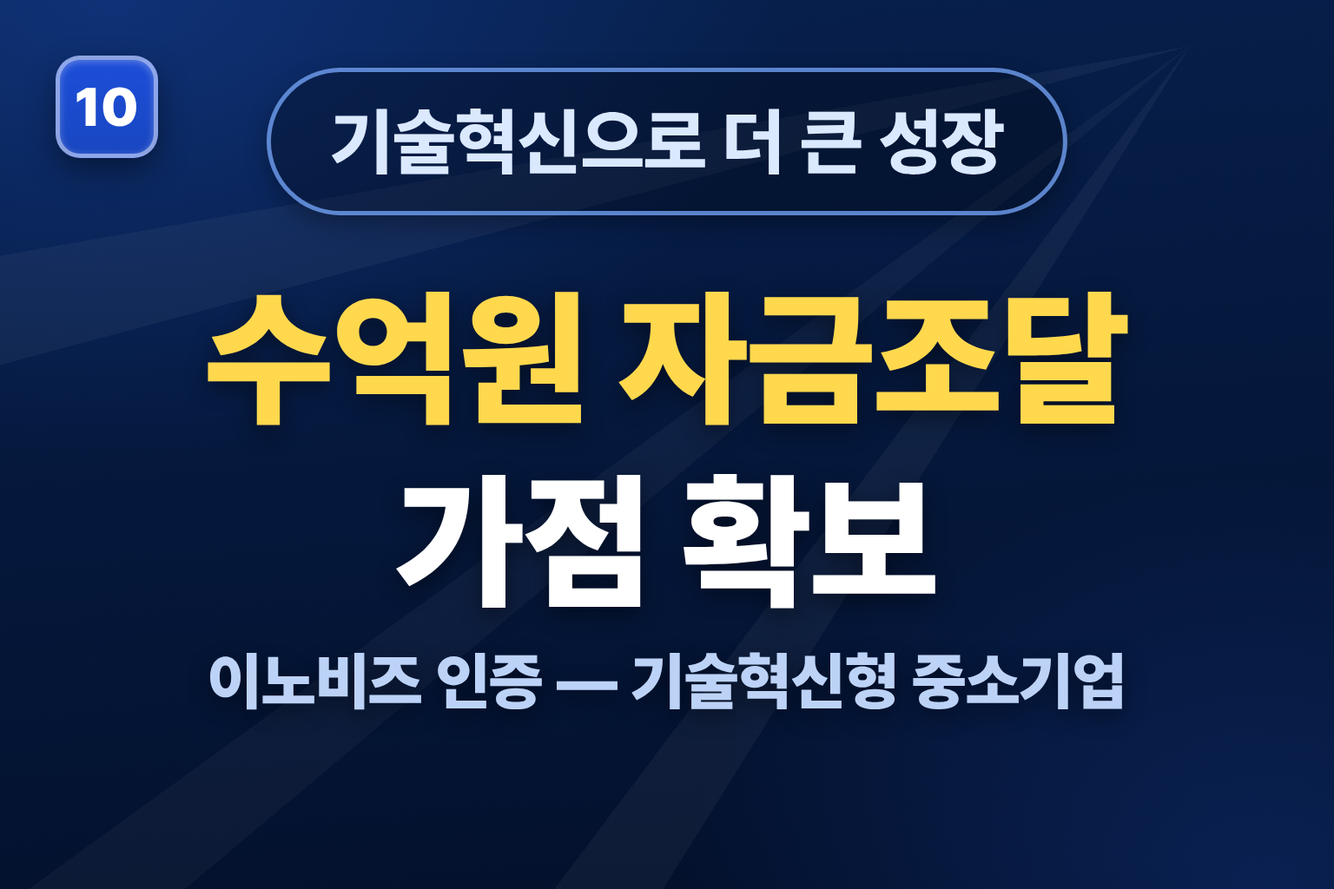
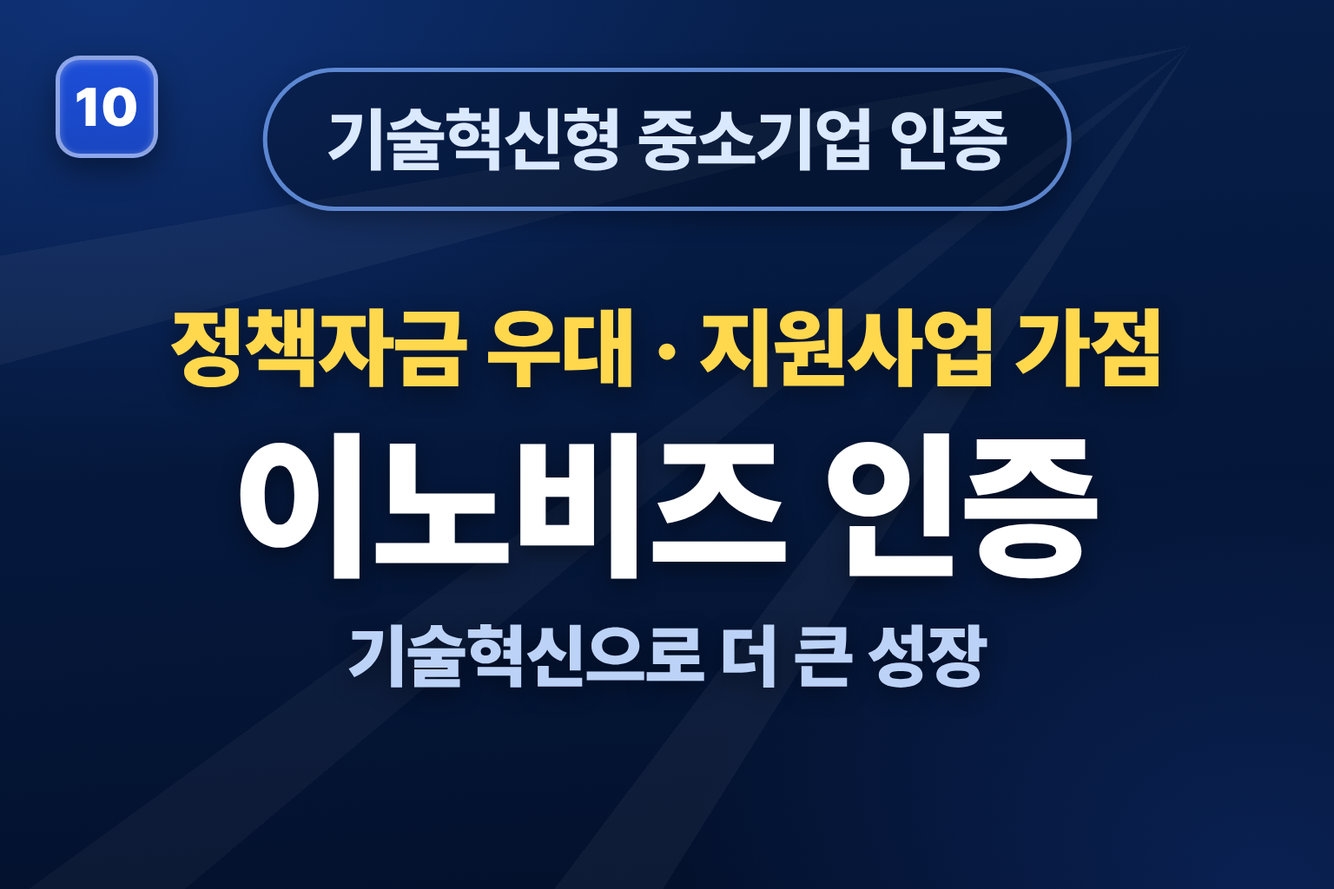
대표 페이지 대개편 — CTA 재구성·카드 버튼 제거·상담 채널 전환·유튜브 신뢰 섹션
히어로
- CTA 리네이밍: '우리 회사에 필요한 서비스 직접 체크해보기' + '✓ 비회원도 체크 가능' 캡션
- '대표 상품 TOP 5 보기'(파란색, #top3 스크롤) 버튼 신설
- 상담을 '카톡 상담하기'(카카오 채널 채팅)·'대면 상담 신청하기'(구글폼) 2버튼으로 분리
- '성장진단은 로그인 없이…' 안내문 삭제 (모바일·PC)
- 수상 2건을 모바일 포함 2열 병렬·소형 배치

상품 카드
- 결제하기/상담 신청/자세히 보기 버튼 전부 제거, 카드 전체가 상세페이지 링크 (결제·상담은 상세 상단 CTA)

하단
- '무료 진단 신청'(#apply·BusinessInquiryForm) 섹션 삭제 → 유튜브 '김팀장의 경영노트' 신뢰 섹션(채널 스크린샷+바로가기)
- 기존 #apply 참조(햄버거·모바일 스티키·진단 리포트·결제완료 화면)를 카카오/구글폼 외부 링크로 교체

배너 카피
- 풀패키지: 강조를 '종합 컨설팅 풀패키지'(골드)로 스왑
- ISO: '대기업 거래·입찰·수출에 큰 도움이 되는 / ISO 인증 패키지 / 9001·14001·45001'
- 메인비즈: '정책자금·정부지원사업에 유리한 / [메인비즈 인증] / 우대평가·가점·신뢰도'
- 이노비즈: '정책자금 우대·지원사업 가점 / 이노비즈 인증 / 기술혁신으로 더 큰 성장'

가격
- 이노비즈 인증 249만원 → 199만원 (front·테스트 카탈로그·시드 SQL 동기화)
  ⚠ 운영 billing_products/billing_prices 는 별도 SQL 실행 필요

상담 채널 상수는 config/businessInfo.consultLinks 로 단일화

Claude-Session: https://claude.ai/code/session_0127QvWRVvHFDHQbBmPVBCzc

diff --git a/src/pages/BusinessServicesPage.tsx b/src/pages/BusinessServicesPage.tsx
@@ -1,15 +1,14 @@
 import { useEffect, useState } from 'react'
 import { Link, useLocation, useSearchParams } from 'react-router-dom'
-import BusinessInquiryForm from '../components/BusinessInquiryForm'
 import BusinessServiceVisual from '../components/BusinessServiceVisual'
 import HeaderAccount from '../components/account/HeaderAccount'
 import LegalFooter from '../components/LegalFooter'
+import { consultLinks } from '../config/businessInfo'
 import {
   businessPackages,
   CATEGORIES,
   CATEGORY_SCENARIOS,
   categoryToneClass,
-  DISCLAIMER,
   FEATURED_IDS,
   packageBanner,
   type BusinessPackage,
@@ -62,39 +61,28 @@ function formatKoreanMoney(text: string): string {
     .replace(/(?<![\d,])(\d+)\s*천\s*원/g, (_m, cheon: string) => `${(parseInt(cheon, 10) * 1000).toLocaleString('ko-KR')}원`)
 }
 
-// 서비스몰형 상품 카드(2차 고도화) — SaaS 미니멀. 카드는 '판매'(사고 싶게), 상세페이지는 '설명' 역할.
-// 상품명 → 가격(강조) → 대표 혜택 3 → 버튼 2. 결제/상담 상품을 시각적으로 구분.
+// 서비스몰형 상품 카드(3차) — 버튼 없이 카드 전체가 상세페이지 링크.
+// 상품명 → 가격(강조) → 대표 혜택 3. 결제/상담은 상세페이지 상단 CTA 에서 진행.
 function ProductCard({ pkg }: { pkg: BusinessPackage }) {
   const b = packageBanner[pkg.id]
   const flagship = pkg.flagship
   const consult = pkg.priceType === 'consult'
   const priceText = formatKoreanMoney(pkg.price)
 
-  // 기본 CTA 테마 — 대표상품(amber) → 상담(blue, "문의") → 결제(slate-900, "구매")
-  const ctaTheme = flagship
-    ? 'bg-amber-500 text-white hover:bg-amber-600 focus-visible:outline-amber-500 shadow-amber-500/20'
-    : consult
-      ? 'bg-blue-600 text-white hover:bg-blue-700 focus-visible:outline-blue-600 shadow-blue-600/15'
-      : 'bg-slate-900 text-white hover:bg-slate-700 focus-visible:outline-slate-600 shadow-slate-900/10'
-  const primaryBtn =
-    `group/btn inline-flex h-[3.25rem] flex-1 items-center justify-center gap-1 whitespace-nowrap rounded-xl px-3 text-[1.05rem] font-bold shadow-sm transition-all duration-150 active:scale-[0.98] focus-visible:outline focus-visible:outline-2 focus-visible:outline-offset-2 disabled:pointer-events-none disabled:opacity-50 ${ctaTheme}`
-
   return (
-    <article
-      className={`group relative flex flex-col overflow-hidden rounded-2xl bg-white transition-all duration-200 hover:-translate-y-1 motion-reduce:transition-none motion-reduce:hover:translate-y-0 ${
+    <Link
+      to={`/business-services/${pkg.slug}`}
+      aria-label={`${pkg.name} 자세히 보기`}
+      className={`group relative flex flex-col overflow-hidden rounded-2xl bg-white transition-all duration-200 hover:-translate-y-1 focus-visible:outline focus-visible:outline-2 focus-visible:outline-offset-2 focus-visible:outline-blue-500 motion-reduce:transition-none motion-reduce:hover:translate-y-0 ${
         flagship
           ? 'border border-amber-300 shadow-sm shadow-amber-500/10 hover:border-amber-400 hover:shadow-lg hover:shadow-amber-500/15'
           : 'border border-slate-200 shadow-sm hover:border-slate-300 hover:shadow-lg'
       }`}
     >
       {/* 썸네일 — 첫인상 전용(대표 카피·이미지). 16:10 컴팩트, 상단 고정 크롭 */}
-      <Link
-        to={`/business-services/${pkg.slug}`}
-        aria-label={`${pkg.name} 자세히 보기`}
-        className="relative block aspect-[16/10] overflow-hidden bg-slate-100 focus-visible:outline focus-visible:outline-2 focus-visible:outline-offset-2 focus-visible:outline-blue-500"
-      >
+      <div className="relative aspect-[16/10] overflow-hidden bg-slate-100">
         <BusinessServiceVisual type={pkg.visualType} title={b.title} accent={b.accent} tag={pkg.category} imageSrc={pkg.imageSrc} alt={pkg.name} fit="cover" minimal />
-      </Link>
+      </div>
 
       <div className="flex flex-1 flex-col p-4 sm:p-5">
         {/* 카테고리 ↔ 대표상품/배지 */}
@@ -142,25 +130,8 @@ function ProductCard({ pkg }: { pkg: BusinessPackage }) {
           ))}
         </ul>
 
-        {/* 버튼 2개 — 결제/상담(primary) · 자세히 보기(secondary) */}
-        <div className="mt-auto flex gap-2 pt-4">
-          {consult ? (
-            <a href="#apply" className={primaryBtn}>상담 신청</a>
-          ) : (
-            <Link to={`/checkout/${pkg.slug}`} className={primaryBtn}>
-              결제하기
-              <span aria-hidden className="transition-transform duration-150 group-hover/btn:translate-x-0.5">→</span>
-            </Link>
-          )}
-          <Link
-            to={`/business-services/${pkg.slug}`}
-            className="inline-flex h-[3.25rem] flex-1 items-center justify-center whitespace-nowrap rounded-xl border border-slate-300 px-3 text-[1.05rem] font-semibold text-slate-700 transition-all duration-150 hover:border-slate-400 hover:bg-slate-50 active:scale-[0.98] focus-visible:outline focus-visible:outline-2 focus-visible:outline-offset-2 focus-visible:outline-blue-500"
-          >
-            자세히 보기
-          </Link>
-        </div>
       </div>
-    </article>
+    </Link>
   )
 }
 
@@ -273,30 +244,51 @@ export default function BusinessServicesPage() {
           <p className="mt-4 max-w-2xl text-[1.1rem] leading-relaxed text-slate-300 sm:text-xl">
             정책자금·고용지원금·기업인증·홈페이지·AI 시스템까지, 기업 상황에 맞는 패키지를 상담 후 제안드립니다.
           </p>
-          <div className="mt-7 flex flex-col gap-3 sm:flex-row">
+          <div className="mt-7 max-w-3xl">
             <Link
               to="/business-diagnosis"
-              className="inline-flex items-center justify-center gap-1.5 rounded-xl bg-amber-400 px-7 py-4 text-lg font-black text-slate-900 shadow-lg shadow-amber-500/20 transition-transform hover:-translate-y-0.5"
+              className="flex items-center justify-center gap-1.5 rounded-xl bg-amber-400 px-7 py-4 text-lg font-black text-slate-900 shadow-lg shadow-amber-500/20 transition-transform hover:-translate-y-0.5 sm:inline-flex"
             >
-              🩺 우리 회사에 필요한 서비스 찾기
+              🩺 우리 회사에 필요한 서비스 직접 체크해보기
             </Link>
-            <button
-              type="button"
-              onClick={() => scrollToId('packages')}
-              className="inline-flex items-center justify-center rounded-xl border border-white/25 bg-white/5 px-7 py-4 text-lg font-bold text-white transition-colors hover:bg-white/10"
-            >
-              전체 상품 보기
-            </button>
-            <a
-              href="#apply"
-              className="inline-flex items-center justify-center rounded-xl border border-white/25 bg-white/5 px-7 py-4 text-lg font-bold text-white transition-colors hover:bg-white/10"
-            >
-              상담 신청하기
-            </a>
+            <p className="mt-2 text-[0.9rem] font-bold text-amber-200/90">✓ 비회원도 체크 가능</p>
+
+            <div className="mt-4 grid grid-cols-2 gap-2.5 sm:flex sm:flex-wrap sm:gap-3">
+              <button
+                type="button"
+                onClick={() => scrollToId('top3')}
+                className="inline-flex items-center justify-center rounded-xl bg-blue-600 px-5 py-3.5 text-base font-bold text-white shadow-lg shadow-blue-600/25 transition-colors hover:bg-blue-500 sm:px-6"
+              >
+                대표 상품 TOP 5 보기
+              </button>
+              <button
+                type="button"
+                onClick={() => scrollToId('packages')}
+                className="inline-flex items-center justify-center rounded-xl border border-white/25 bg-white/5 px-5 py-3.5 text-base font-bold text-white transition-colors hover:bg-white/10 sm:px-6"
+              >
+                전체 상품 보기
+              </button>
+              <a
+                href={consultLinks.kakaoChat}
+                target="_blank"
+                rel="noopener noreferrer"
+                className="inline-flex items-center justify-center gap-1.5 rounded-xl bg-[#FEE500] px-5 py-3.5 text-base font-bold text-[#191919] transition-transform hover:-translate-y-0.5 sm:px-6"
+              >
+                <svg viewBox="0 0 24 24" className="h-5 w-5 shrink-0" aria-hidden>
+                  <path fill="#191919" d="M12 3C6.75 3 2.5 6.36 2.5 10.5c0 2.64 1.73 4.96 4.34 6.29l-.9 3.33c-.08.3.26.54.52.37l3.96-2.63c.51.07 1.04.14 1.58.14 5.25 0 9.5-3.36 9.5-7.5S17.25 3 12 3z" />
+                </svg>
+                카톡 상담하기
+              </a>
+              <a
+                href={consultLinks.googleForm}
+                target="_blank"
+                rel="noopener noreferrer"
+                className="inline-flex items-center justify-center rounded-xl border border-white/25 bg-white/5 px-5 py-3.5 text-base font-bold text-white transition-colors hover:bg-white/10 sm:px-6"
+              >
+                대면 상담 신청하기
+              </a>
+            </div>
           </div>
-          <p className="mt-3.5 text-[0.98rem] font-medium text-slate-400">
-            <b className="text-slate-200">성장진단</b>은 로그인 없이 바로 · <b className="text-slate-200">상담 신청</b>은 담당자가 직접 연락드립니다.
-          </p>
 
           {/* 신뢰 지표 — 서비스 찾기 CTA 바로 아래, 상품보다 먼저 눈에 띄게 */}
           <div id="trust" className="mt-7 max-w-4xl scroll-mt-24 rounded-2xl border border-white/10 bg-white/[0.05] p-5 backdrop-blur sm:p-6">
@@ -343,13 +335,14 @@ export default function BusinessServicesPage() {
                   <span aria-hidden className="text-slate-300">↗</span>
                 </a>
               </div>
-              <div className="mt-3.5 grid gap-2.5 sm:grid-cols-2">
+              {/* 수상 — 모바일에서도 2열 병렬, 소형 */}
+              <div className="mt-3 grid grid-cols-2 gap-2">
                 {trustAwards.map((a) => (
-                  <div key={a.title} className="flex items-start gap-2.5 rounded-lg border border-white/10 bg-white/5 px-3.5 py-2.5">
-                    <span className="mt-0.5 shrink-0 rounded bg-amber-400 px-2 py-0.5 text-[0.8rem] font-black text-slate-900">{a.year}</span>
+                  <div key={a.title} className="flex items-start gap-1.5 rounded-lg border border-white/10 bg-white/5 px-2.5 py-2">
+                    <span className="mt-0.5 shrink-0 rounded bg-amber-400 px-1.5 py-0.5 text-[0.68rem] font-black text-slate-900">{a.year}</span>
                     <span className="min-w-0">
-                      <span className="block text-[0.98rem] font-bold leading-snug text-slate-100">{a.title}</span>
-                      <span className="text-[0.85rem] text-slate-400">{a.detail}</span>
+                      <span className="block text-[0.78rem] font-bold leading-snug text-slate-100">{a.title}</span>
+                      <span className="text-[0.7rem] text-slate-400">{a.detail}</span>
                     </span>
                   </div>
                 ))}
@@ -435,22 +428,39 @@ export default function BusinessServicesPage() {
         </div>
       </section>
 
-      {/* Apply form */}
-      <section id="apply" className="scroll-mt-16 border-t border-slate-200 bg-slate-50">
-        <div className="mx-auto max-w-3xl px-5 py-10 sm:px-6 sm:py-14">
+      {/* 활동·신뢰 — 유튜브 채널 (SNS 활동 결과물, 추후 확장) */}
+      <section id="channel" className="scroll-mt-16 border-t border-slate-200 bg-slate-50">
+        <div className="mx-auto max-w-4xl px-5 py-10 sm:px-6 sm:py-14">
           <div className="text-center">
-            <p className={eyebrow}>무료 진단 신청</p>
-            <h2 className={h2Class}>먼저, 대표님 상황부터 진단해보세요</h2>
+            <p className={eyebrow}>믿을 수 있는 활동</p>
+            <h2 className={h2Class}>유튜브 ‘김팀장의 경영노트’</h2>
             <p className="mx-auto mt-3 max-w-xl text-base leading-relaxed text-slate-600">
-              간단히 남겨주시면 어떤 준비부터 시작하면 좋을지 방향을 정리해 안내드립니다.
+              정책자금·정부지원금·절세 실무를 영상으로 직접 공개하고 있습니다.
             </p>
           </div>
-          <p className="mx-auto mt-6 max-w-xl rounded-2xl border border-slate-200 bg-white p-4 text-xs leading-relaxed text-slate-500">
-            {DISCLAIMER}
-          </p>
-          <div className="mt-6">
-            <BusinessInquiryForm />
-          </div>
+          <a
+            href={consultLinks.youtube}
+            target="_blank"
+            rel="noopener noreferrer"
+            aria-label="유튜브 김팀장의 경영노트 채널 (새 탭에서 열림)"
+            className="group mt-7 block overflow-hidden rounded-2xl border border-slate-200 bg-white shadow-sm transition-all duration-200 hover:-translate-y-0.5 hover:border-slate-300 hover:shadow-lg motion-reduce:transition-none"
+          >
+            <img
+              src="/assets/profile/youtube-channel.webp"
+              alt="유튜브 김팀장의 경영노트 채널 화면 — 정책자금·지원금·절세 실무 영상"
+              loading="lazy"
+              decoding="async"
+              className="w-full"
+            />
+            <span className="flex items-center justify-center gap-2 border-t border-slate-100 px-4 py-4 text-[1.05rem] font-bold text-slate-800">
+              <svg viewBox="0 0 24 24" className="h-6 w-6 shrink-0" aria-hidden>
+                <rect x="1.5" y="5" width="21" height="14" rx="3.5" fill="#FF0000" />
+                <path d="M10 9.2v5.6l5-2.8-5-2.8z" fill="#fff" />
+              </svg>
+              채널 바로가기
+              <span aria-hidden className="transition-transform group-hover:translate-x-0.5">↗</span>
+            </span>
+          </a>
         </div>
       </section>
 
@@ -464,13 +474,15 @@ export default function BusinessServicesPage() {
             to="/business-diagnosis"
             className="flex flex-1 items-center justify-center rounded-xl bg-blue-600 px-4 py-3.5 text-base font-bold text-white"
           >
-            3분 무료 성장진단
+            서비스 직접 체크해보기
           </Link>
           <a
-            href="#apply"
-            className="flex flex-1 items-center justify-center rounded-xl border border-slate-300 bg-white px-4 py-3.5 text-base font-bold text-slate-700"
+            href={consultLinks.kakaoChat}
+            target="_blank"
+            rel="noopener noreferrer"
+            className="flex flex-1 items-center justify-center gap-1 rounded-xl bg-[#FEE500] px-4 py-3.5 text-base font-bold text-[#191919]"
           >
-            상담 신청
+            카톡 상담
           </a>
         </div>
       )}

diff --git a/src/pages/PaymentCompletePage.tsx b/src/pages/PaymentCompletePage.tsx
@@ -4,6 +4,7 @@
 //  - code/message 쿼리가 있으면 실패·취소 상태로 표시
 //  - 새로고침해도 중복 주문 없이 기존 결과를 다시 보여줍니다 (서버 멱등)
 import { useCallback, useEffect, useState } from 'react'
+import { consultLinks } from '../config/businessInfo'
 import { Link, useSearchParams } from 'react-router-dom'
 import HeaderAccount from '../components/account/HeaderAccount'
 import { ServiceTimeline, StatusBadge } from '../components/payment/PaymentUX'
@@ -274,9 +275,9 @@ export default function PaymentCompletePage() {
                   다시 결제하기
                 </Link>
               )}
-              <Link to="/business-services#apply" onClick={() => trackPaymentEvent('payment_consultation_clicked', paymentId)} className="flex min-h-12 flex-1 items-center justify-center rounded-xl border border-slate-300 bg-white px-6 py-3 text-base font-bold text-slate-700 hover:bg-slate-50">
+              <a href={consultLinks.googleForm} target="_blank" rel="noopener noreferrer" onClick={() => trackPaymentEvent('payment_consultation_clicked', paymentId)} className="flex min-h-12 flex-1 items-center justify-center rounded-xl border border-slate-300 bg-white px-6 py-3 text-base font-bold text-slate-700 hover:bg-slate-50">
                 상담 신청하기
-              </Link>
+              </a>
             </div>
           </>
         )}
@@ -295,9 +296,9 @@ export default function PaymentCompletePage() {
               >
                 다시 결제하기
               </Link>
-              <Link to="/business-services#apply" onClick={() => trackPaymentEvent('payment_consultation_clicked', paymentId || null)} className="flex min-h-12 flex-1 items-center justify-center rounded-xl border border-slate-300 bg-white px-6 py-3 text-base font-bold text-slate-700 hover:bg-slate-50">
+              <a href={consultLinks.googleForm} target="_blank" rel="noopener noreferrer" onClick={() => trackPaymentEvent('payment_consultation_clicked', paymentId || null)} className="flex min-h-12 flex-1 items-center justify-center rounded-xl border border-slate-300 bg-white px-6 py-3 text-base font-bold text-slate-700 hover:bg-slate-50">
                 상담 신청하기
-              </Link>
+              </a>
             </div>
           </>
         )}
@@ -309,9 +310,9 @@ export default function PaymentCompletePage() {
             <p className="mt-2 text-sm leading-relaxed text-slate-600">
               추가 결제를 시도하지 말고 고객센터로 문의해주세요. 담당자가 결제 내역을 확인해 처리해드립니다.
             </p>
-            <Link to="/business-services#apply" className="mt-5 flex min-h-12 w-full items-center justify-center rounded-xl bg-slate-900 px-6 py-3 text-base font-bold text-white hover:bg-slate-700">
+            <a href={consultLinks.googleForm} target="_blank" rel="noopener noreferrer" className="mt-5 flex min-h-12 w-full items-center justify-center rounded-xl bg-slate-900 px-6 py-3 text-base font-bold text-white hover:bg-slate-700">
               고객센터 문의하기
-            </Link>
+            </a>
           </>
         )}
       </main>

diff --git a/src/components/PublicMenuDrawer.tsx b/src/components/PublicMenuDrawer.tsx
@@ -6,6 +6,7 @@ import { createPortal } from 'react-dom'
 import { Link, useLocation, useNavigate } from 'react-router-dom'
 import { loadHistory } from '../lib/businessDiagnosisStorage'
 import { loadLocalOrders } from '../lib/payments'
+import { consultLinks } from '../config/businessInfo'
 import { useAuth } from '../lib/auth'
 import { accountEmail, displayName, memberTypeLabel, resolveAvatarUrl } from '../lib/accountDisplay'
 import { loginPathWithNext } from '../lib/authRouting'
@@ -77,7 +78,8 @@ const BUSINESS_MENU: MenuConfig = {
       accent: 'cyan',
       items: [
         { label: '기업 진단', to: '/business-diagnosis', match: (p) => p.startsWith('/business-diagnosis') },
-        { label: '상담 신청', to: '/business-services#apply' },
+        { label: '카톡 상담하기', to: consultLinks.kakaoChat },
+        { label: '대면 상담 신청', to: consultLinks.googleForm },
       ],
     },
     {
@@ -367,6 +369,25 @@ export default function PublicMenuDrawer({
                     <ul className="space-y-0.5">
                       {group.items.map((m) => {
                         const active = m.match ? m.match(path) : false
+                        // 외부 링크(카톡·구글폼 등)는 <a> 로 새 탭 오픈
+                        if (m.to.startsWith('http')) {
+                          return (
+                            <li key={m.label}>
+                              <a
+                                href={m.to}
+                                target="_blank"
+                                rel="noopener noreferrer"
+                                className="flex min-h-11 items-center justify-between gap-2 rounded-xl px-3.5 py-2.5 text-slate-700 transition-colors hover:bg-slate-50 hover:text-slate-900 focus-visible:outline focus-visible:outline-2 focus-visible:outline-blue-500"
+                              >
+                                <span className="flex min-w-0 items-start gap-2">
+                                  {m.no && <span className={`mt-0.5 shrink-0 text-[0.85rem] font-black tabular-nums ${acc.no}`}>{m.no}.</span>}
+                                  <span className="block text-[0.95rem] font-semibold leading-snug">{m.label}</span>
+                                </span>
+                                <span aria-hidden className="shrink-0 text-slate-400">↗</span>
+                              </a>
+                            </li>
+                          )
+                        }
                         return (
                           <li key={m.label}>
                             <Link

diff --git a/src/components/diagnosis/StageReport.tsx b/src/components/diagnosis/StageReport.tsx
@@ -3,6 +3,7 @@
 //   ① 한눈에 보기  ② 지금 먼저 확인할 3가지  ③ 놓치고 있을 혜택  ④ 성장 로드맵  ⑤ 맞춤 서비스(제출 후)
 //   + 영역별 상세 준비도(접힘). 추천 상품은 게이트(연락처) 제출 후 공개.
 import { useEffect, useState } from 'react'
+import { consultLinks } from '../../config/businessInfo'
 import { Link } from 'react-router-dom'
 import type {
   AdvantageResultItem,
@@ -287,9 +288,9 @@ function Recommendations({
                     자세히 보기
                   </Link>
                   {pkg.priceType === 'consult' ? (
-                    <Link to="/business-services#apply" onClick={() => onConsultClick(rec.slug)} className="flex min-h-11 flex-1 items-center justify-center rounded-xl border border-slate-300 px-3 py-2.5 text-sm font-bold text-slate-700 transition-colors hover:bg-slate-50">
+                    <a href={consultLinks.googleForm} target="_blank" rel="noopener noreferrer" onClick={() => onConsultClick(rec.slug)} className="flex min-h-11 flex-1 items-center justify-center rounded-xl border border-slate-300 px-3 py-2.5 text-sm font-bold text-slate-700 transition-colors hover:bg-slate-50">
                       상담 신청
-                    </Link>
+                    </a>
                   ) : (
                     <Link to={`/checkout/${pkg.slug}`} onClick={() => onConsultClick(rec.slug)} className="flex min-h-11 flex-1 items-center justify-center rounded-xl bg-blue-600 px-3 py-2.5 text-sm font-bold text-white transition-colors hover:bg-blue-700">
                       바로 결제하기

diff --git a/api/_lib/paymentCatalog.ts b/api/_lib/paymentCatalog.ts
@@ -30,7 +30,7 @@ const LOCAL_CATALOG: Array<Omit<ServerProduct, 'source' | 'priceId' | 'priceVers
   { productSlug: 'responsive-homepage', optionId: null, name: '반응형 홈페이지 제작', optionName: null, amount: 990000, paymentType: 'one_time', vatIncluded: true },
   { productSlug: 'rnd-center', optionId: null, name: '기업부설연구소 설립', optionName: null, amount: 1490000, paymentType: 'one_time', vatIncluded: true },
   { productSlug: 'mainbiz-certification', optionId: null, name: '메인비즈 인증', optionName: null, amount: 1990000, paymentType: 'one_time', vatIncluded: true },
-  { productSlug: 'innobiz-certification', optionId: null, name: '이노비즈 인증', optionName: null, amount: 2490000, paymentType: 'one_time', vatIncluded: true },
+  { productSlug: 'innobiz-certification', optionId: null, name: '이노비즈 인증', optionName: null, amount: 1990000, paymentType: 'one_time', vatIncluded: true },
   { productSlug: 'iso-certification', optionId: 'iso-one', name: 'ISO 인증 패키지', optionName: 'ISO 1종', amount: 1490000, paymentType: 'one_time', vatIncluded: true },
   { productSlug: 'iso-certification', optionId: 'iso-two', name: 'ISO 인증 패키지', optionName: 'ISO 2종', amount: 2180000, paymentType: 'one_time', vatIncluded: true },
   { productSlug: 'iso-certification', optionId: 'iso-three', name: 'ISO 인증 패키지', optionName: 'ISO 3종 패키지', amount: 3990000, paymentType: 'one_time', vatIncluded: true },

diff --git a/src/data/businessPackages.ts b/src/data/businessPackages.ts
@@ -389,8 +389,8 @@ export const businessPackages: BusinessPackage[] = [
     name: '이노비즈 인증',
     tagline: '기술혁신기업 인증을 통한 정책자금·정부지원사업 우대를 준비합니다.',
     short: '기술혁신기업 인증을 통한 정책자금·정부지원사업 우대',
-    price: '249만원',
-    amount: 2490000,
+    price: '199만원',
+    amount: 1990000,
     highlights: ['정책자금 우대 혜택', '정부지원사업 선정 가점', '기술혁신 기업 — 브랜드 가치 상승'],
     highlightNote: '기술혁신형 중소기업으로 성장의 기회를 넓히세요.',
     recommendedFor: ['기술혁신 역량을 인증으로 정리하려는 기업', '정책자금·정부지원사업 우대를 준비하는 대표님'],

diff --git a/src/config/businessInfo.ts b/src/config/businessInfo.ts
@@ -35,6 +35,13 @@ export const businessInfo = {
   legalLastUpdated: '2026-07-13',
 } as const
 
+/** 상담 채널 — 카카오톡 채널 채팅 · 대면 상담 구글폼 (상담 CTA 공용) */
+export const consultLinks = {
+  kakaoChat: 'http://pf.kakao.com/_xovbyn/chat',
+  googleForm: 'https://docs.google.com/forms/d/e/1FAIpQLSeEMgsFlQxIDfPriHqJZgUFIYZ3WldKUKe0kYm-6vbgJSMFzA/viewform',
+  youtube: 'https://youtube.com/channel/UCjXWwM0_25vl1Mpr2Pc5amQ?si=vBv8_7d3w8Uk5uGA',
+} as const
+
 /** 법적 페이지 라우트 (푸터·크로스링크 공용) */
 export const legalLinks = [
   { to: '/terms', label: '이용약관' },
